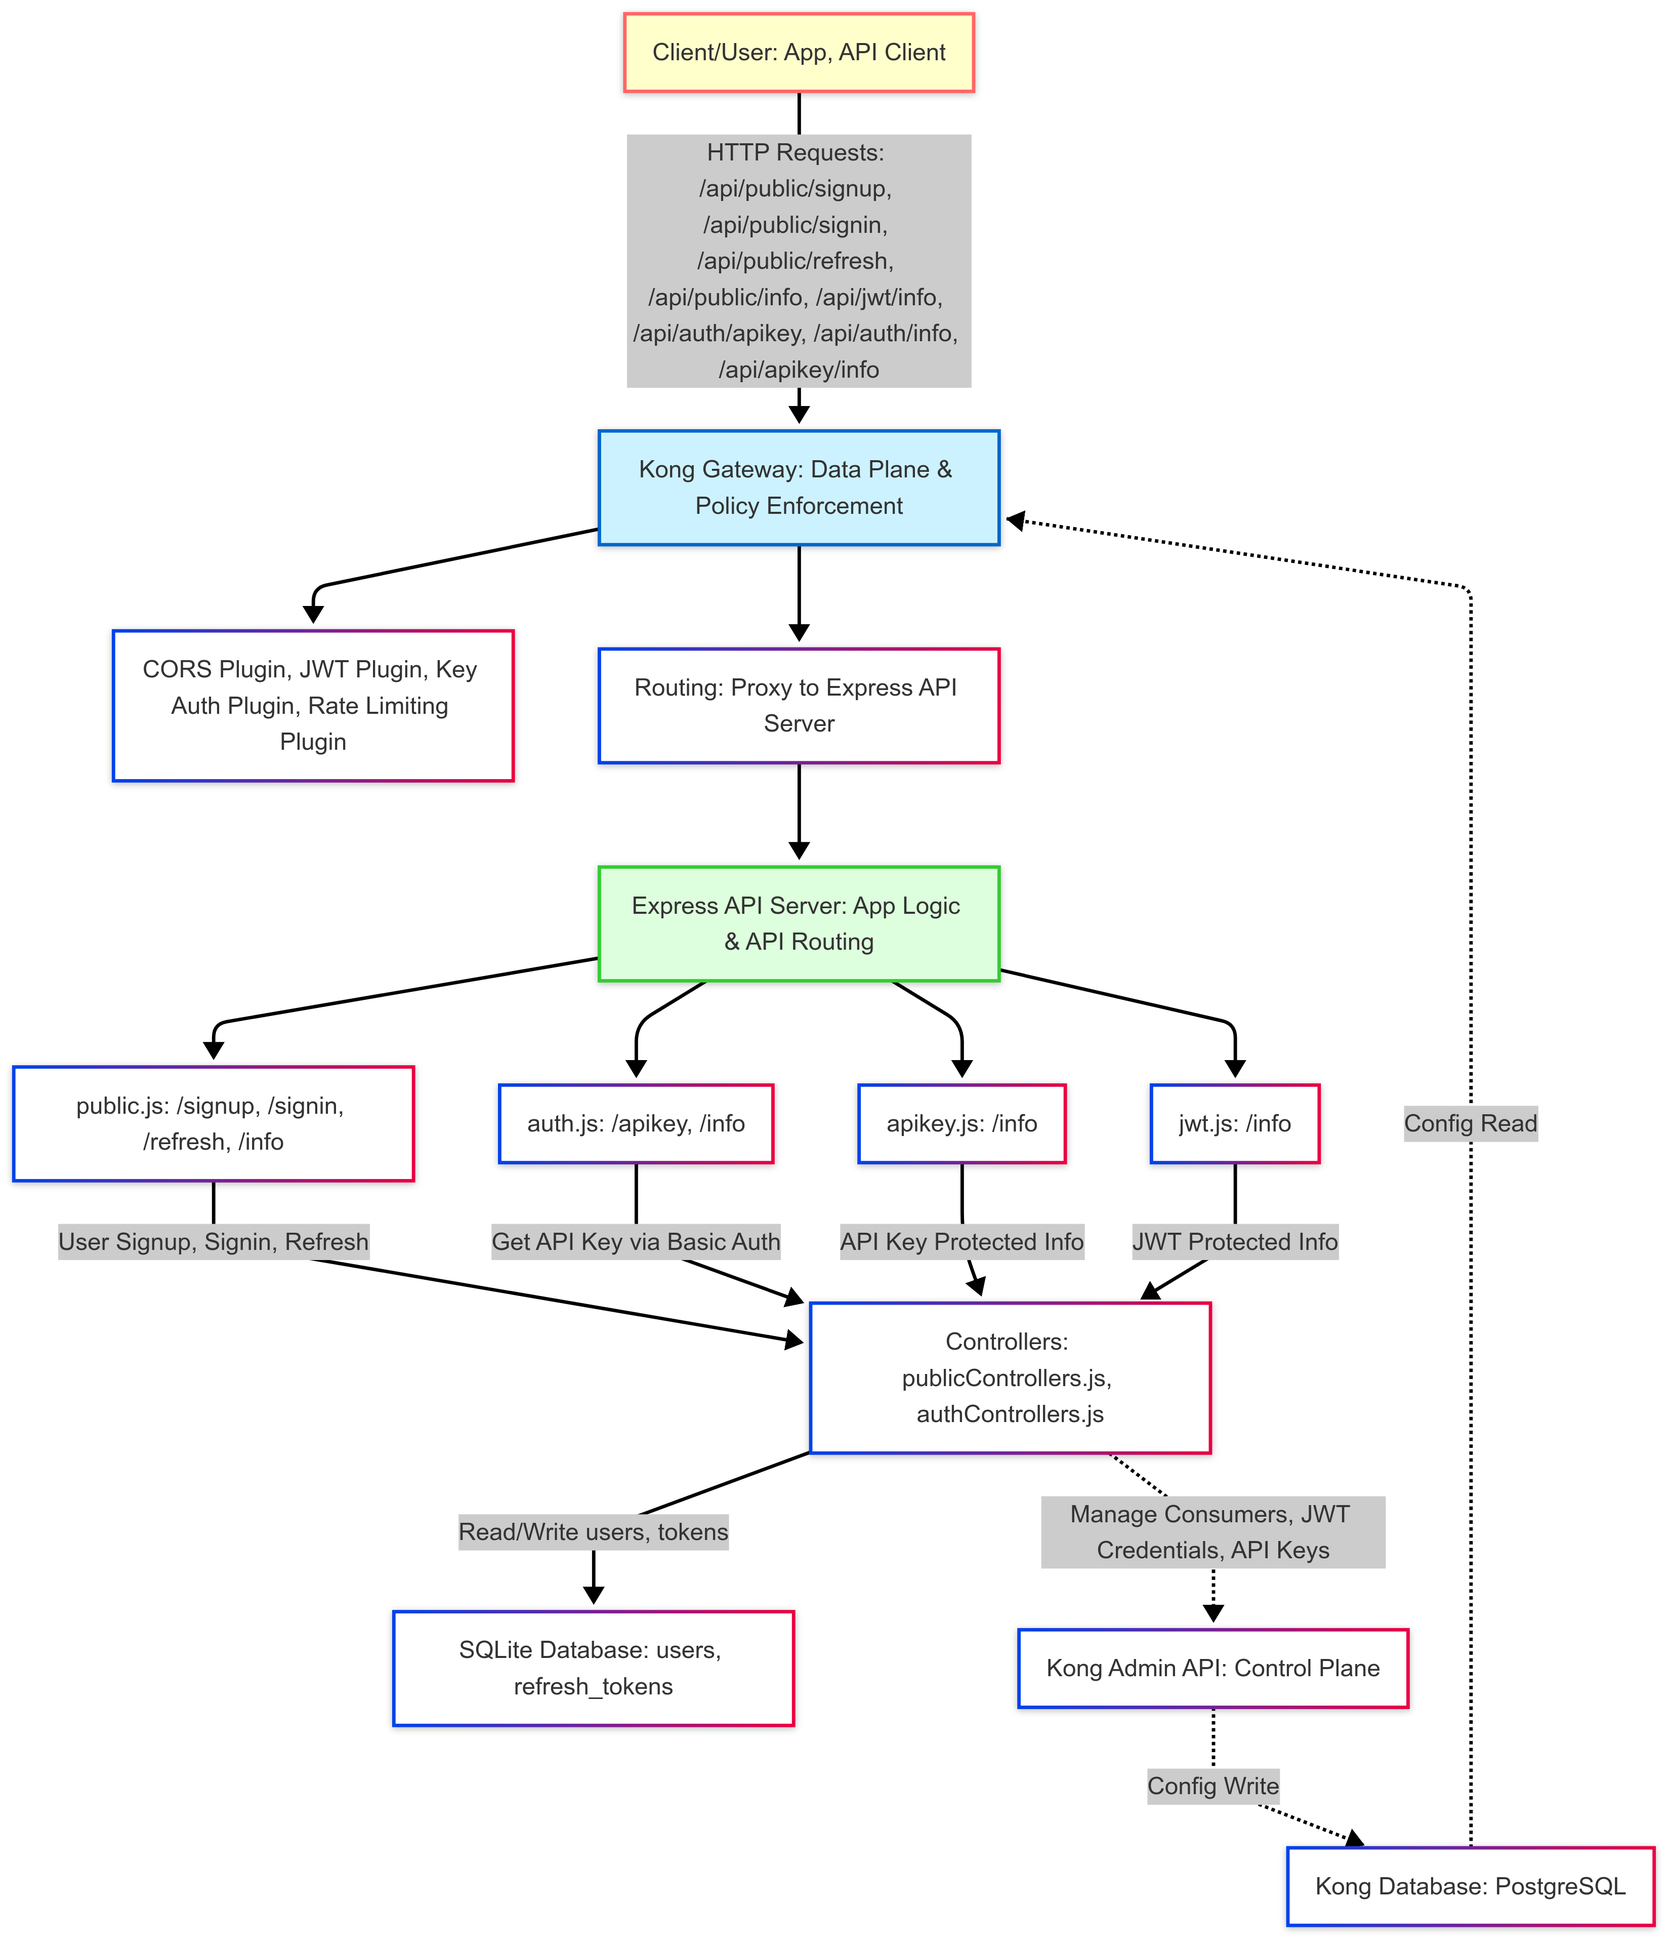
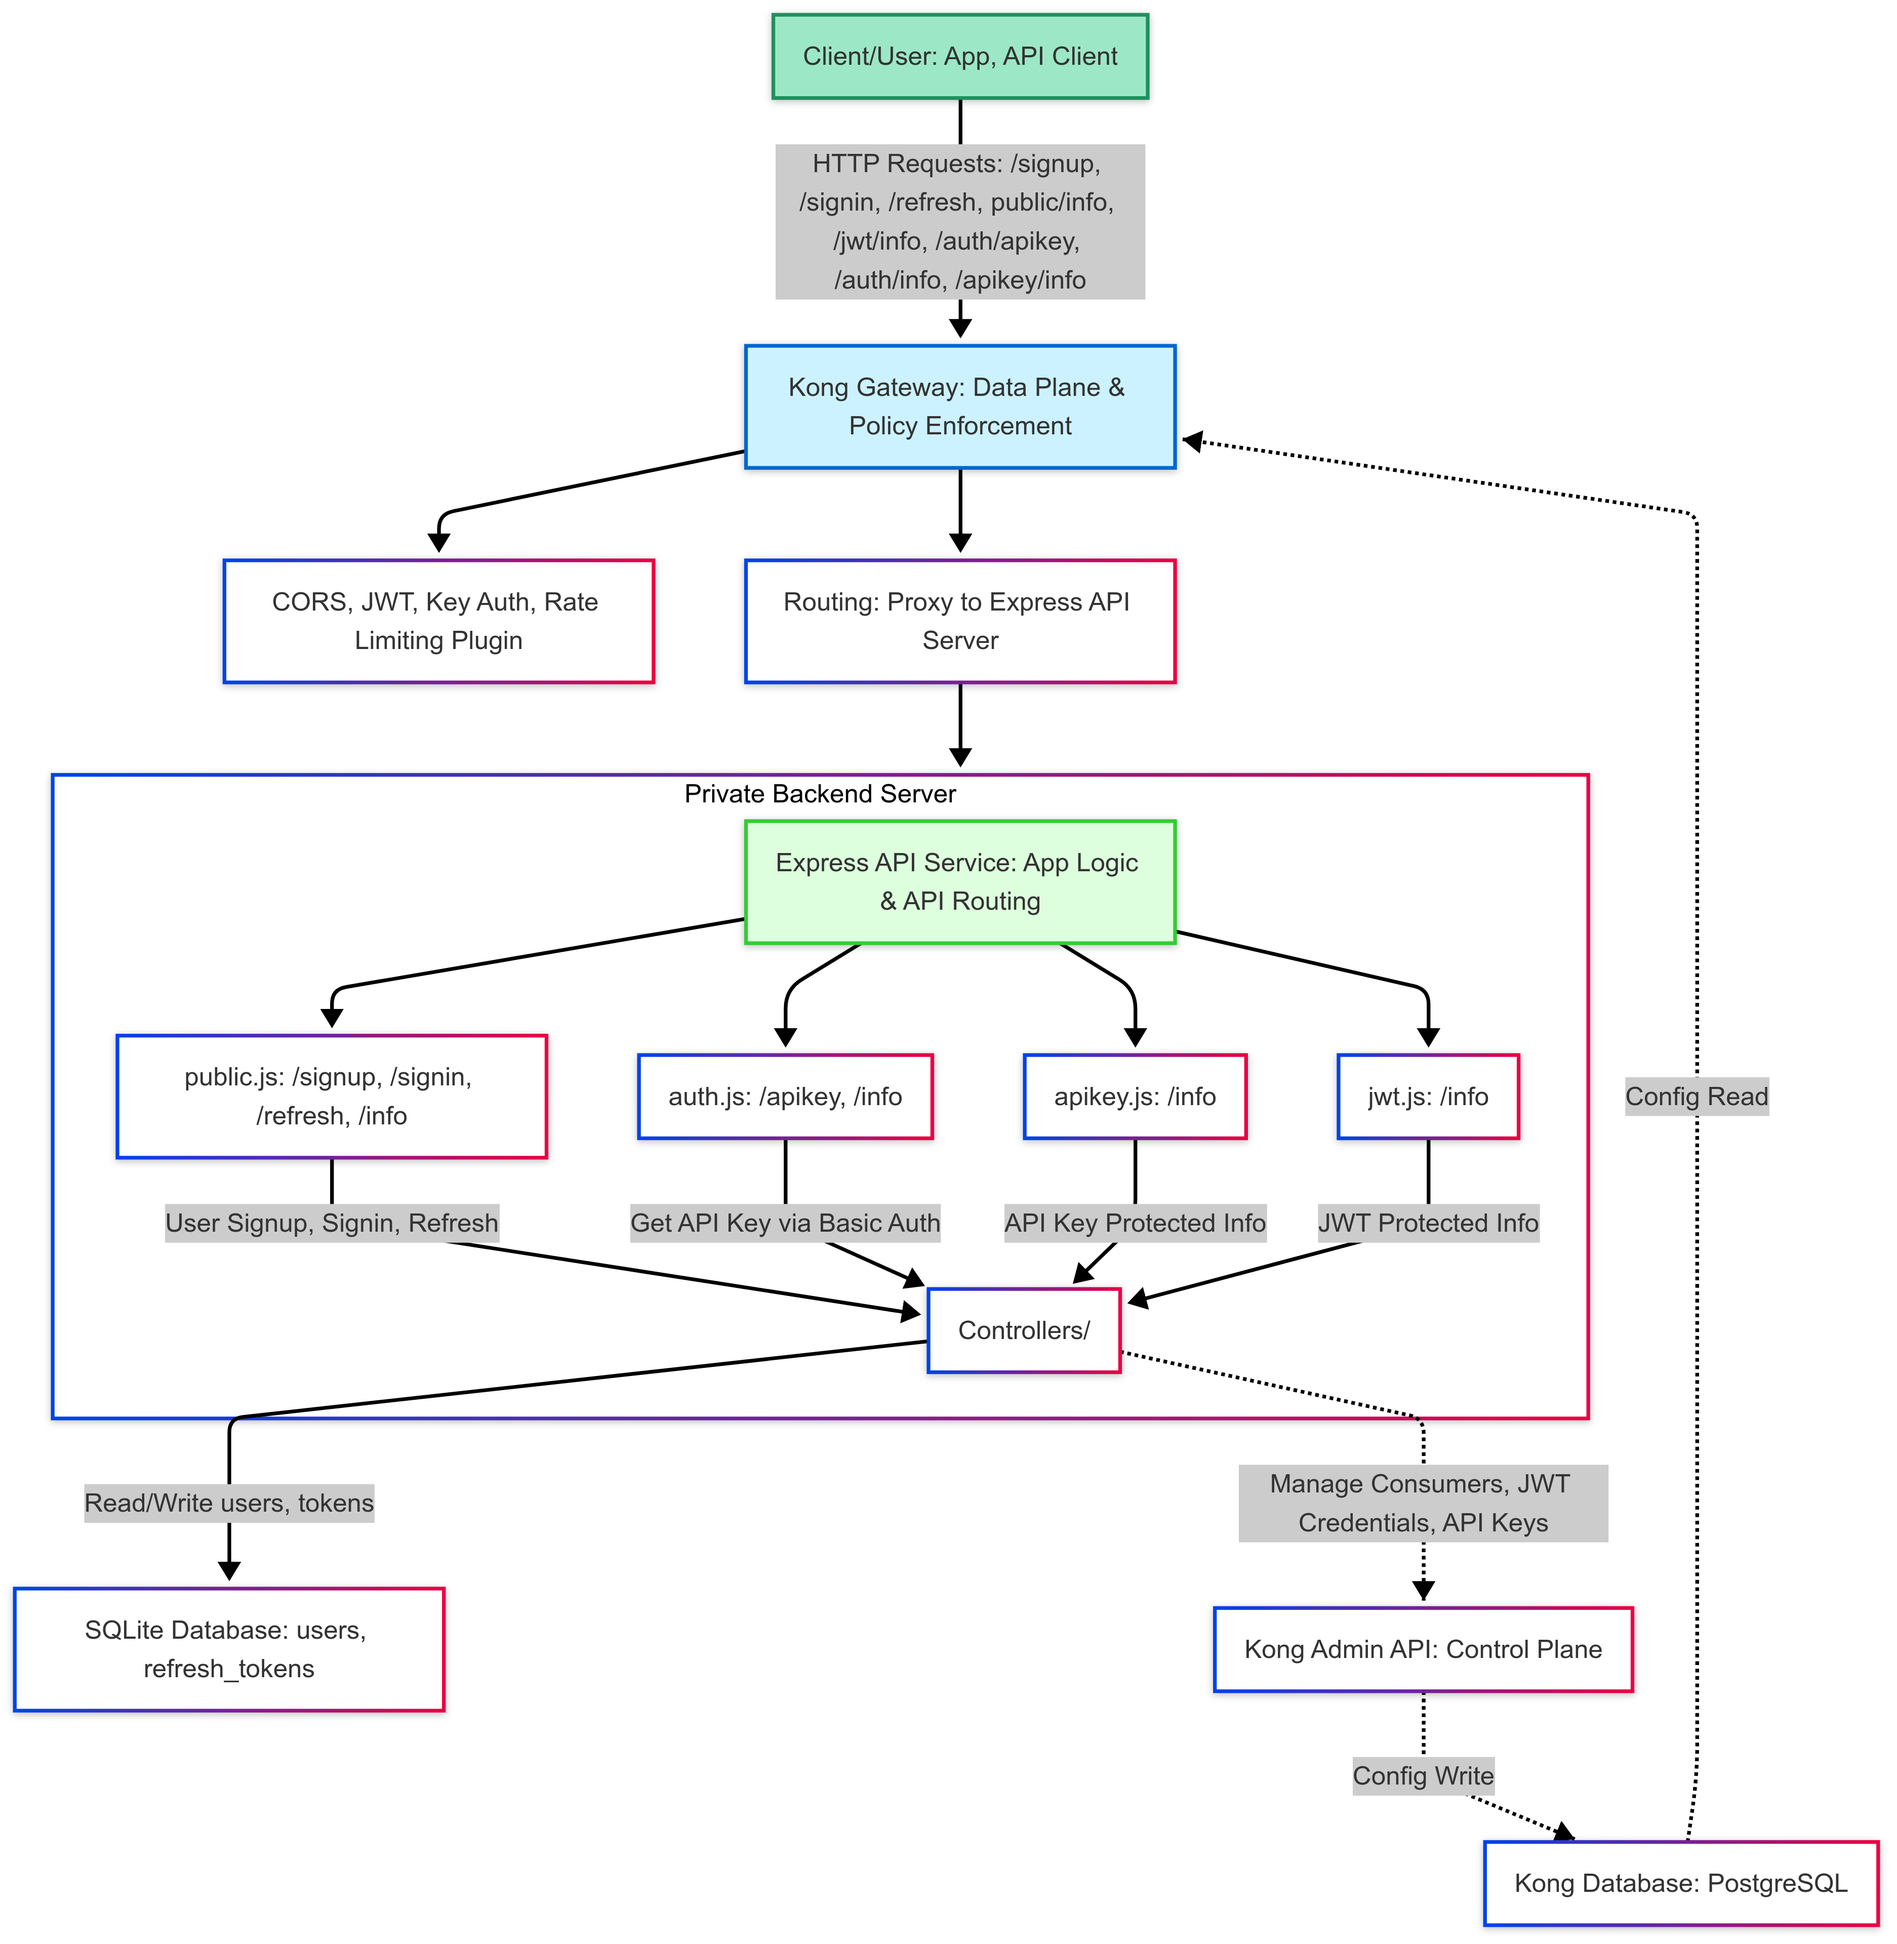
Update architect

Changed region(s): [[0.0, 0.0, 0.9976, 1.0]]

diff --git a/asset/AppArch.md b/asset/AppArch.md
@@ -1,6 +1,6 @@
 ```mermaid
 flowchart TD
-    style A fill:#ffffcc,stroke:#ff6666,stroke-width:2px
+    style A fill:#9CE8C6,stroke:#218F5D,stroke-width:2px
     style B fill:#ccf2ff,stroke:#0066cc,stroke-width:2px
     style C fill:#ddffdd,stroke:#33cc33,stroke-width:2px
 
@@ -8,16 +8,19 @@ flowchart TD
 
     %% Kong Gateway Layer (Data Plane)
     B[Kong Gateway: Data Plane & Policy Enforcement]
-    Bsub1[CORS Plugin, JWT Plugin, Key Auth Plugin, Rate Limiting Plugin]
+    Bsub1[CORS, JWT, Key Auth, Rate Limiting Plugin]
     Bsub2[Routing: Proxy to Express API Server]
 
     %% Express API Server Layer
-    C[Express API Server: App Logic & API Routing]
-    C1[public.js: /signup, /signin, /refresh, /info]
-    C2[auth.js: /apikey, /info]
-    C3[apikey.js: /info]
-    C4[jwt.js: /info]
-    C5[Controllers: publicControllers.js, authControllers.js]
+    subgraph ServerLayer [Private Backend Server]
+        direction TB
+        C[Express API Service: App Logic & API Routing]
+        C1[public.js: /signup, /signin, /refresh, /info]
+        C2[auth.js: /apikey, /info]
+        C3[apikey.js: /info]
+        C4[jwt.js: /info]
+        C5[Controllers/]
+    end
 
     %% Data Store
     D[SQLite Database: users, refresh_tokens]
@@ -27,14 +30,14 @@ flowchart TD
     F[Kong Database: PostgreSQL]
 
     %% Connections: Client to Kong Gateway
-    A -->|HTTP Requests: /api/public/signup, /api/public/signin, /api/public/refresh, /api/public/info, /api/jwt/info, /api/auth/apikey, /api/auth/info, /api/apikey/info| B
+    A -->|HTTP Requests: /signup, /signin, /refresh, public/info, /jwt/info, /auth/apikey, /auth/info, /apikey/info| B
 
     %% Kong Gateway Plugins
     B --> Bsub1
     B --> Bsub2
 
     %% Routing to Express API Server
-    Bsub2 --> C
+    Bsub2 --> ServerLayer
 
     %% Express API Server Routes
     C --> C1
